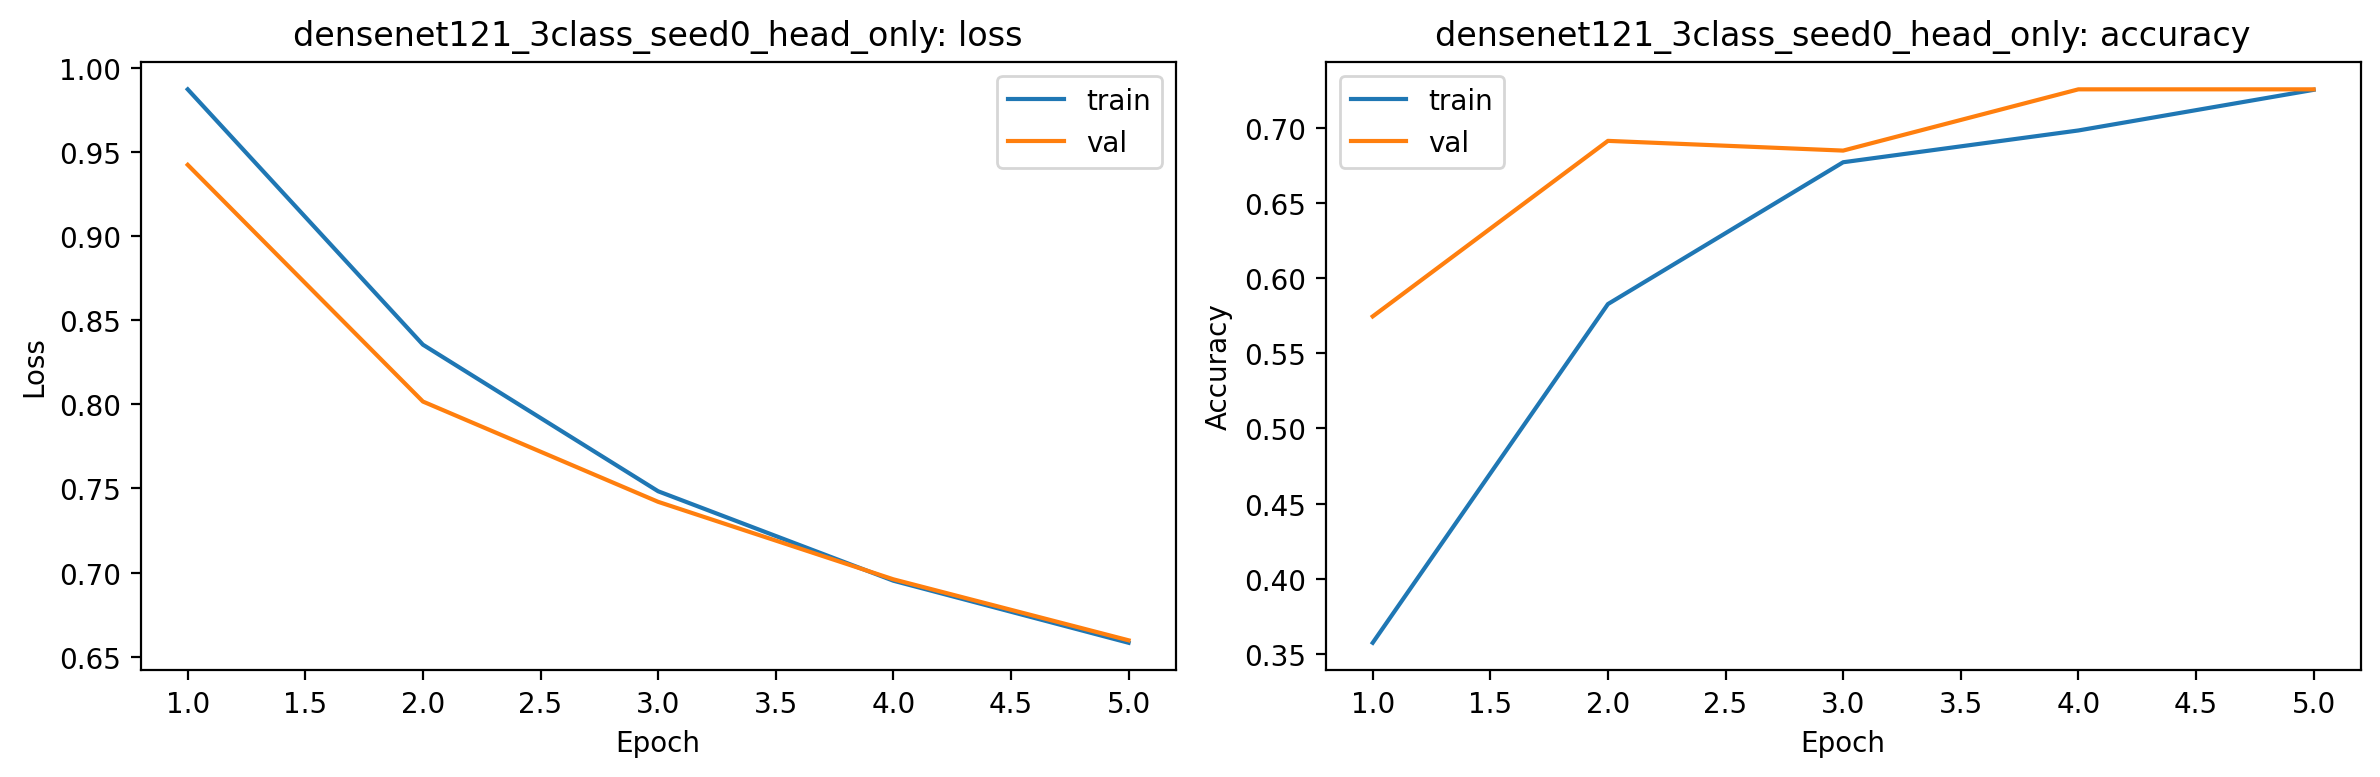
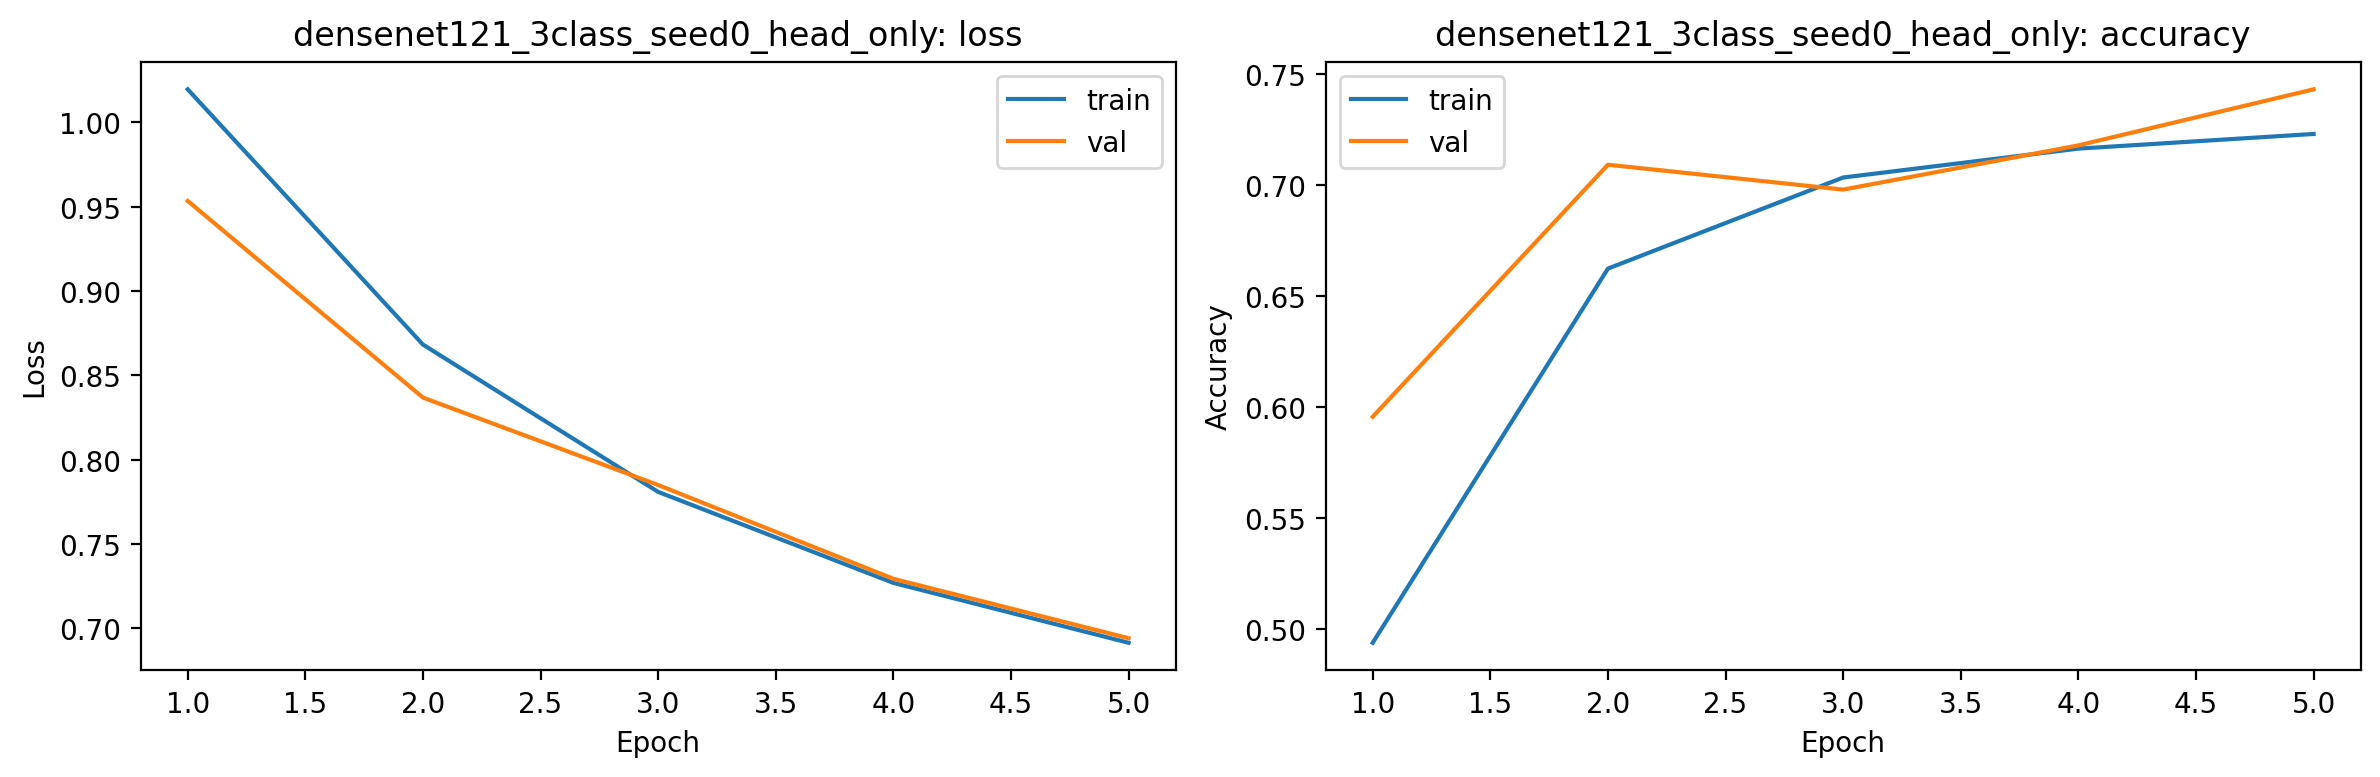
small code changes

diff --git a/src/pneumonia_classifier/evaluate.py b/src/pneumonia_classifier/evaluate.py
@@ -1,14 +1,11 @@
 """Evaluation helpers for trained checkpoints."""
 
 from __future__ import annotations
-
 import time
 from pathlib import Path
 from typing import Any
-
 import torch
 from torch.utils.data import DataLoader
-
 from pneumonia_classifier.config import is_three_class
 from pneumonia_classifier.metrics import compute_binary_metrics, compute_multiclass_metrics
 from pneumonia_classifier.utils import save_json

diff --git a/src/pneumonia_classifier/metrics.py b/src/pneumonia_classifier/metrics.py
@@ -1,9 +1,7 @@
 """Metrics for pneumonia classification (binary and multi-class)."""
 
 from __future__ import annotations
-
 from typing import Any
-
 import numpy as np
 from sklearn.metrics import (
     accuracy_score,

diff --git a/src/pneumonia_classifier/utils.py b/src/pneumonia_classifier/utils.py
@@ -1,12 +1,10 @@
 """Shared utility helpers."""
 
 from __future__ import annotations
-
 import json
 import random
 from pathlib import Path
 from typing import Any
-
 import numpy as np
 import torch
 

diff --git a/src/pneumonia_classifier/models/custom_cnn.py b/src/pneumonia_classifier/models/custom_cnn.py
@@ -1,7 +1,6 @@
 """Custom CNN baseline for pediatric chest X-ray classification."""
 
 from __future__ import annotations
-
 import torch
 from torch import nn
 